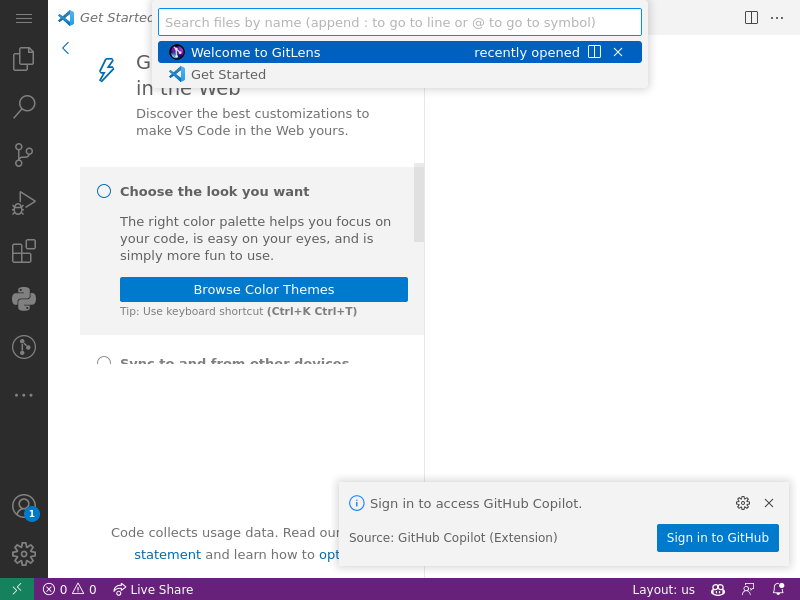
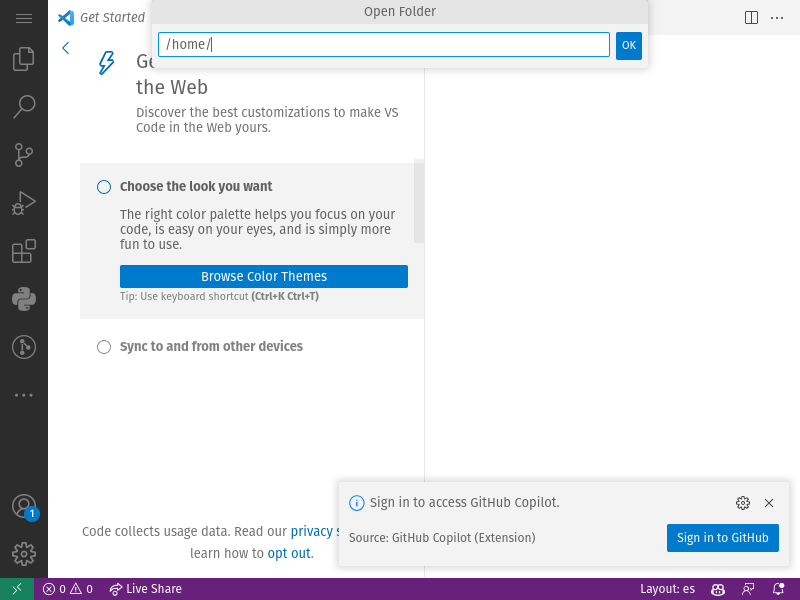
fixed file

diff --git a/src/main.ts b/src/main.ts
@@ -71,11 +71,11 @@ async function run() {
 
   console.log(schemas);
 
-  const isFirefoxInstalled = await which('firefox');
-  console.log('isFirefoxInstalled', isFirefoxInstalled);
+  const isGoogleInstalled = await which('google-chrome');
+  console.log('isGoogleInstalled', isGoogleInstalled);
 
-  if (!isFirefoxInstalled) {
-    const installFirefoxCommand = new Deno.Command('deno', {
+  if (!isGoogleInstalled) {
+    const installGoogleCommand = new Deno.Command('deno', {
       args: [
         'run',
         '-A',
@@ -84,9 +84,9 @@ async function run() {
       ]
     });
 
-    const { stdout: installFirefoxStdout } =
-      await installFirefoxCommand.output();
-    console.log(installFirefoxStdout);
+    const { stdout: installGoogleCommandStdout } =
+      await installGoogleCommand.output();
+    console.log(installGoogleCommandStdout);
   }
 
   const isServerInstalled = await which('code-server');
@@ -123,19 +123,25 @@ async function run() {
   await delay(8000);
 
   const browser = await puppeteer.launch({
-    product: 'firefox',
-    executablePath: isFirefoxInstalled
+    product: 'chrome',
+    executablePath: isGoogleInstalled,
+    headless: true,
   });
 
   const page = await browser.newPage();
   await page.goto('http://localhost:8000');
 
-  await delay(5000);
-  await page.keyboard.down('Control');
-  await page.keyboard.down('p');
+  await delay(10000);
+  // await page.keyboard.down('Control');
+  // await page.keyboard.down('p');
+
+  await page.keyboard.down('ControlLeft');
+  await page.keyboard.press('KeyK');
+  await page.keyboard.press('KeyO');
+  await delay(3000);
 
   await page.screenshot({
-    path: 'example.png'
+    path: 'example.png',
   });
   await delay(10000);
   await browser.close();
